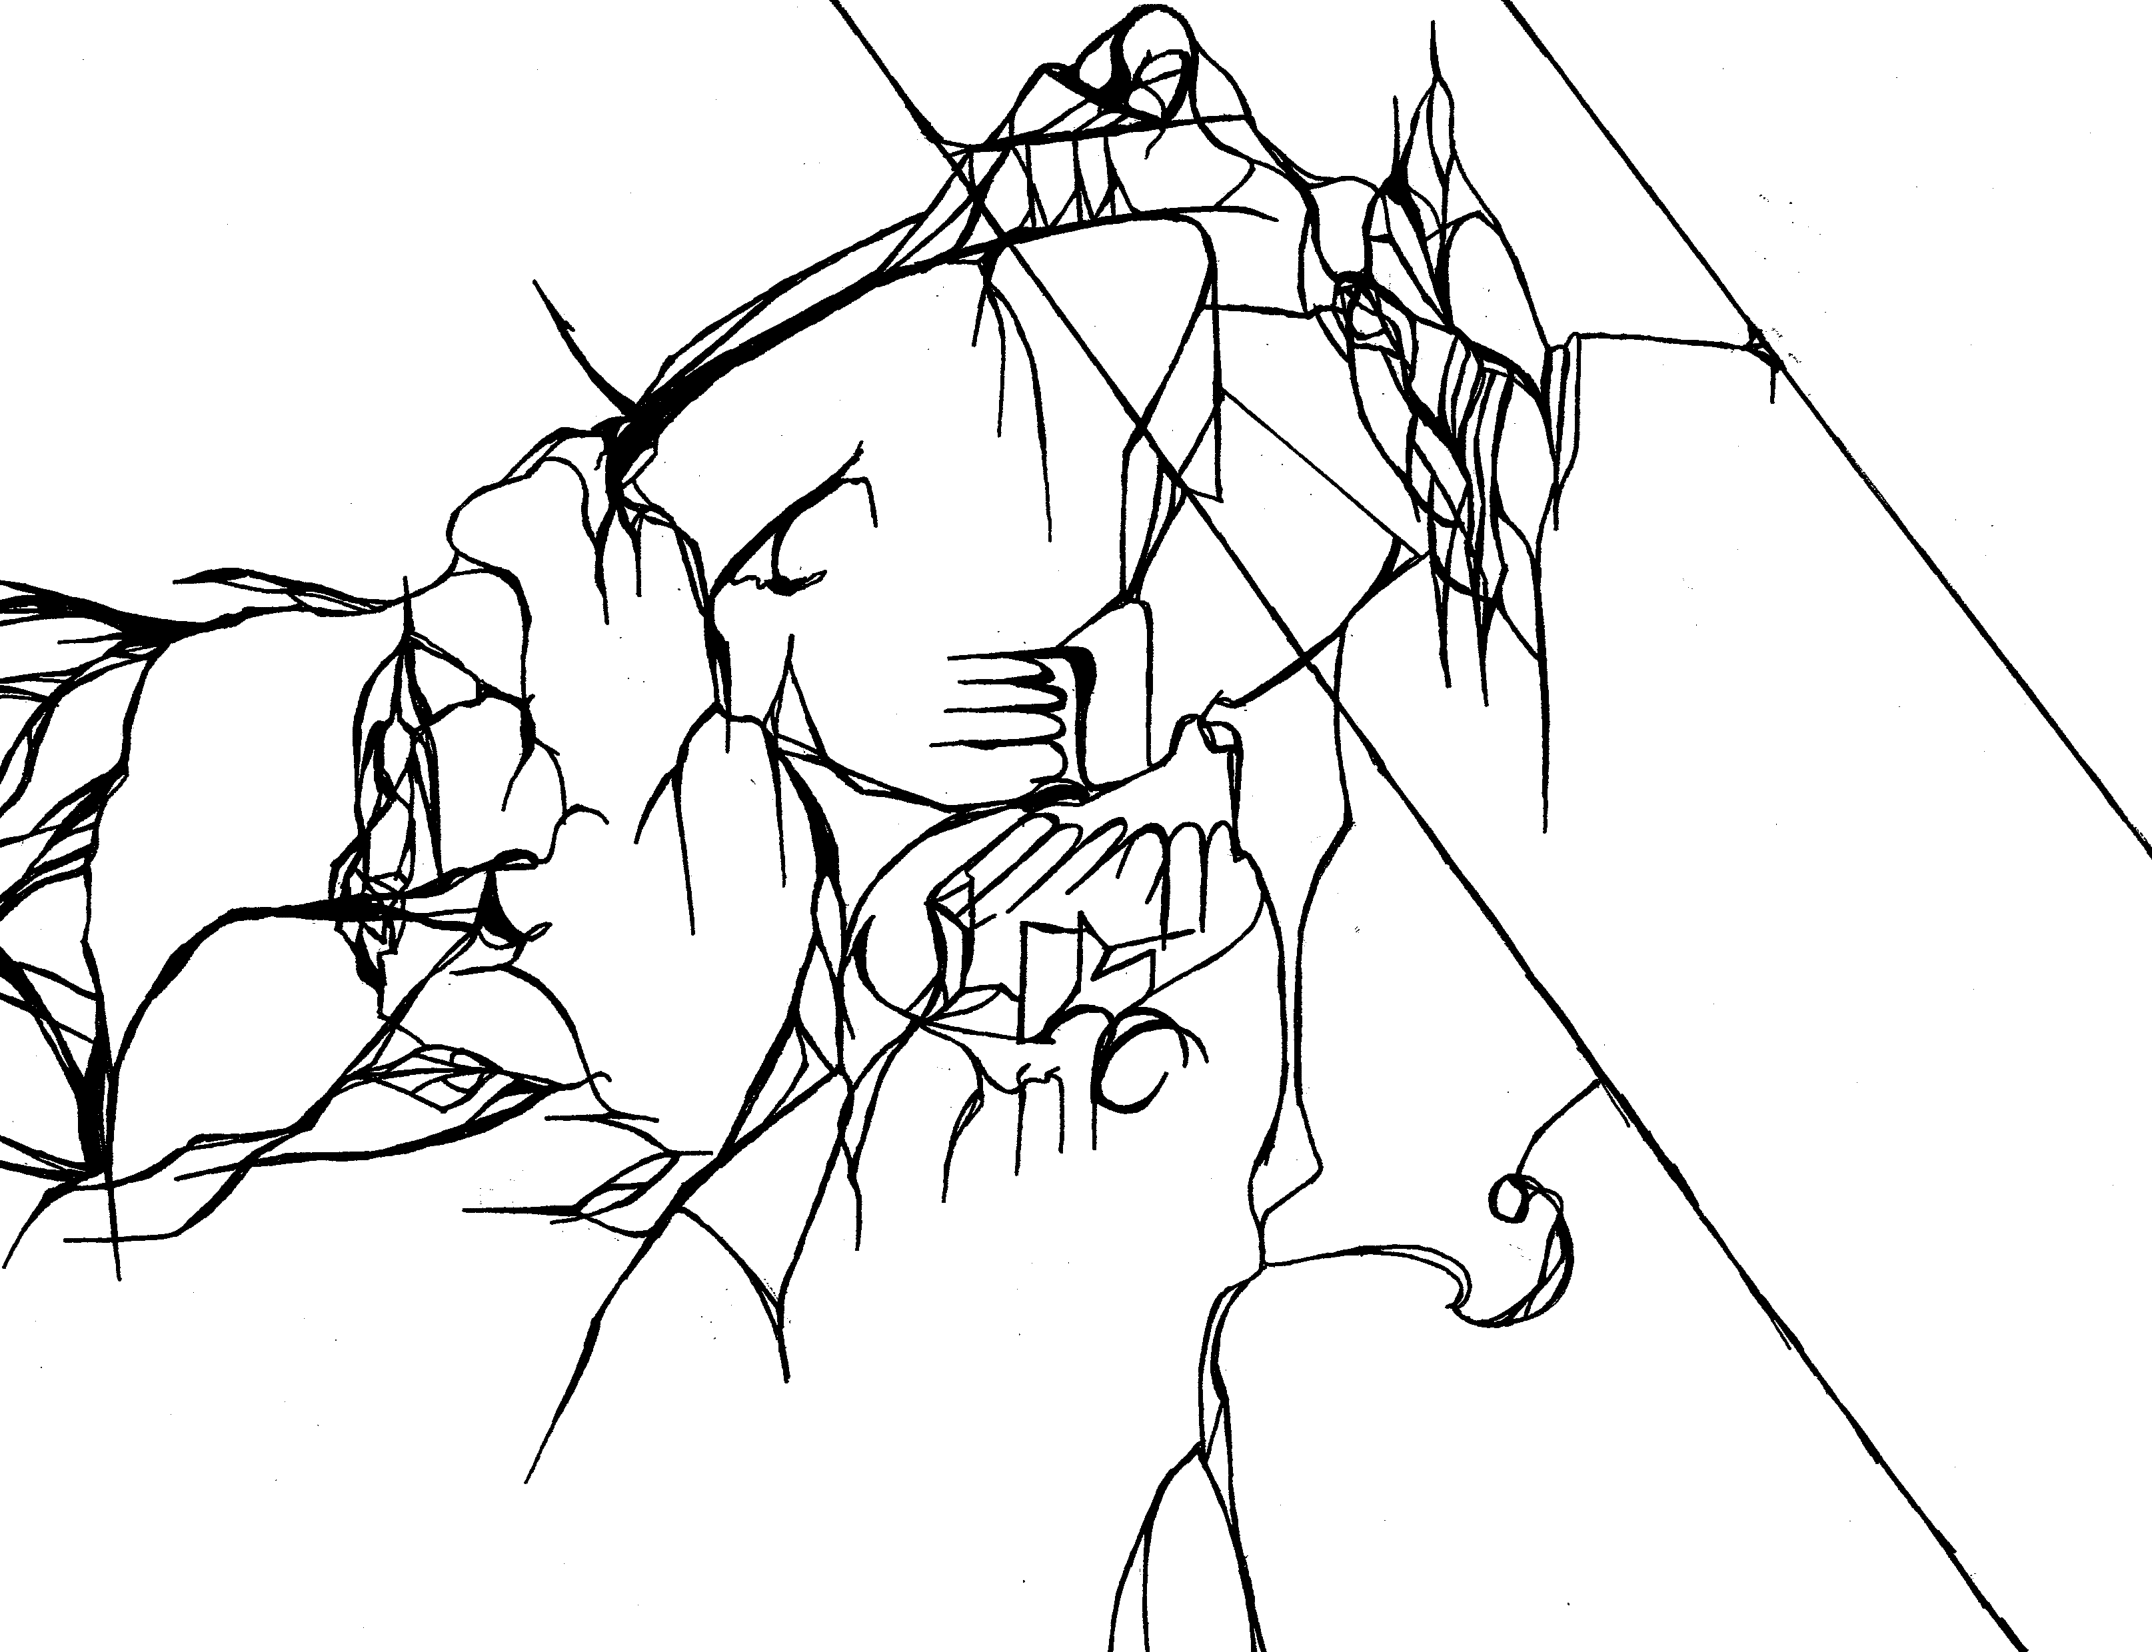
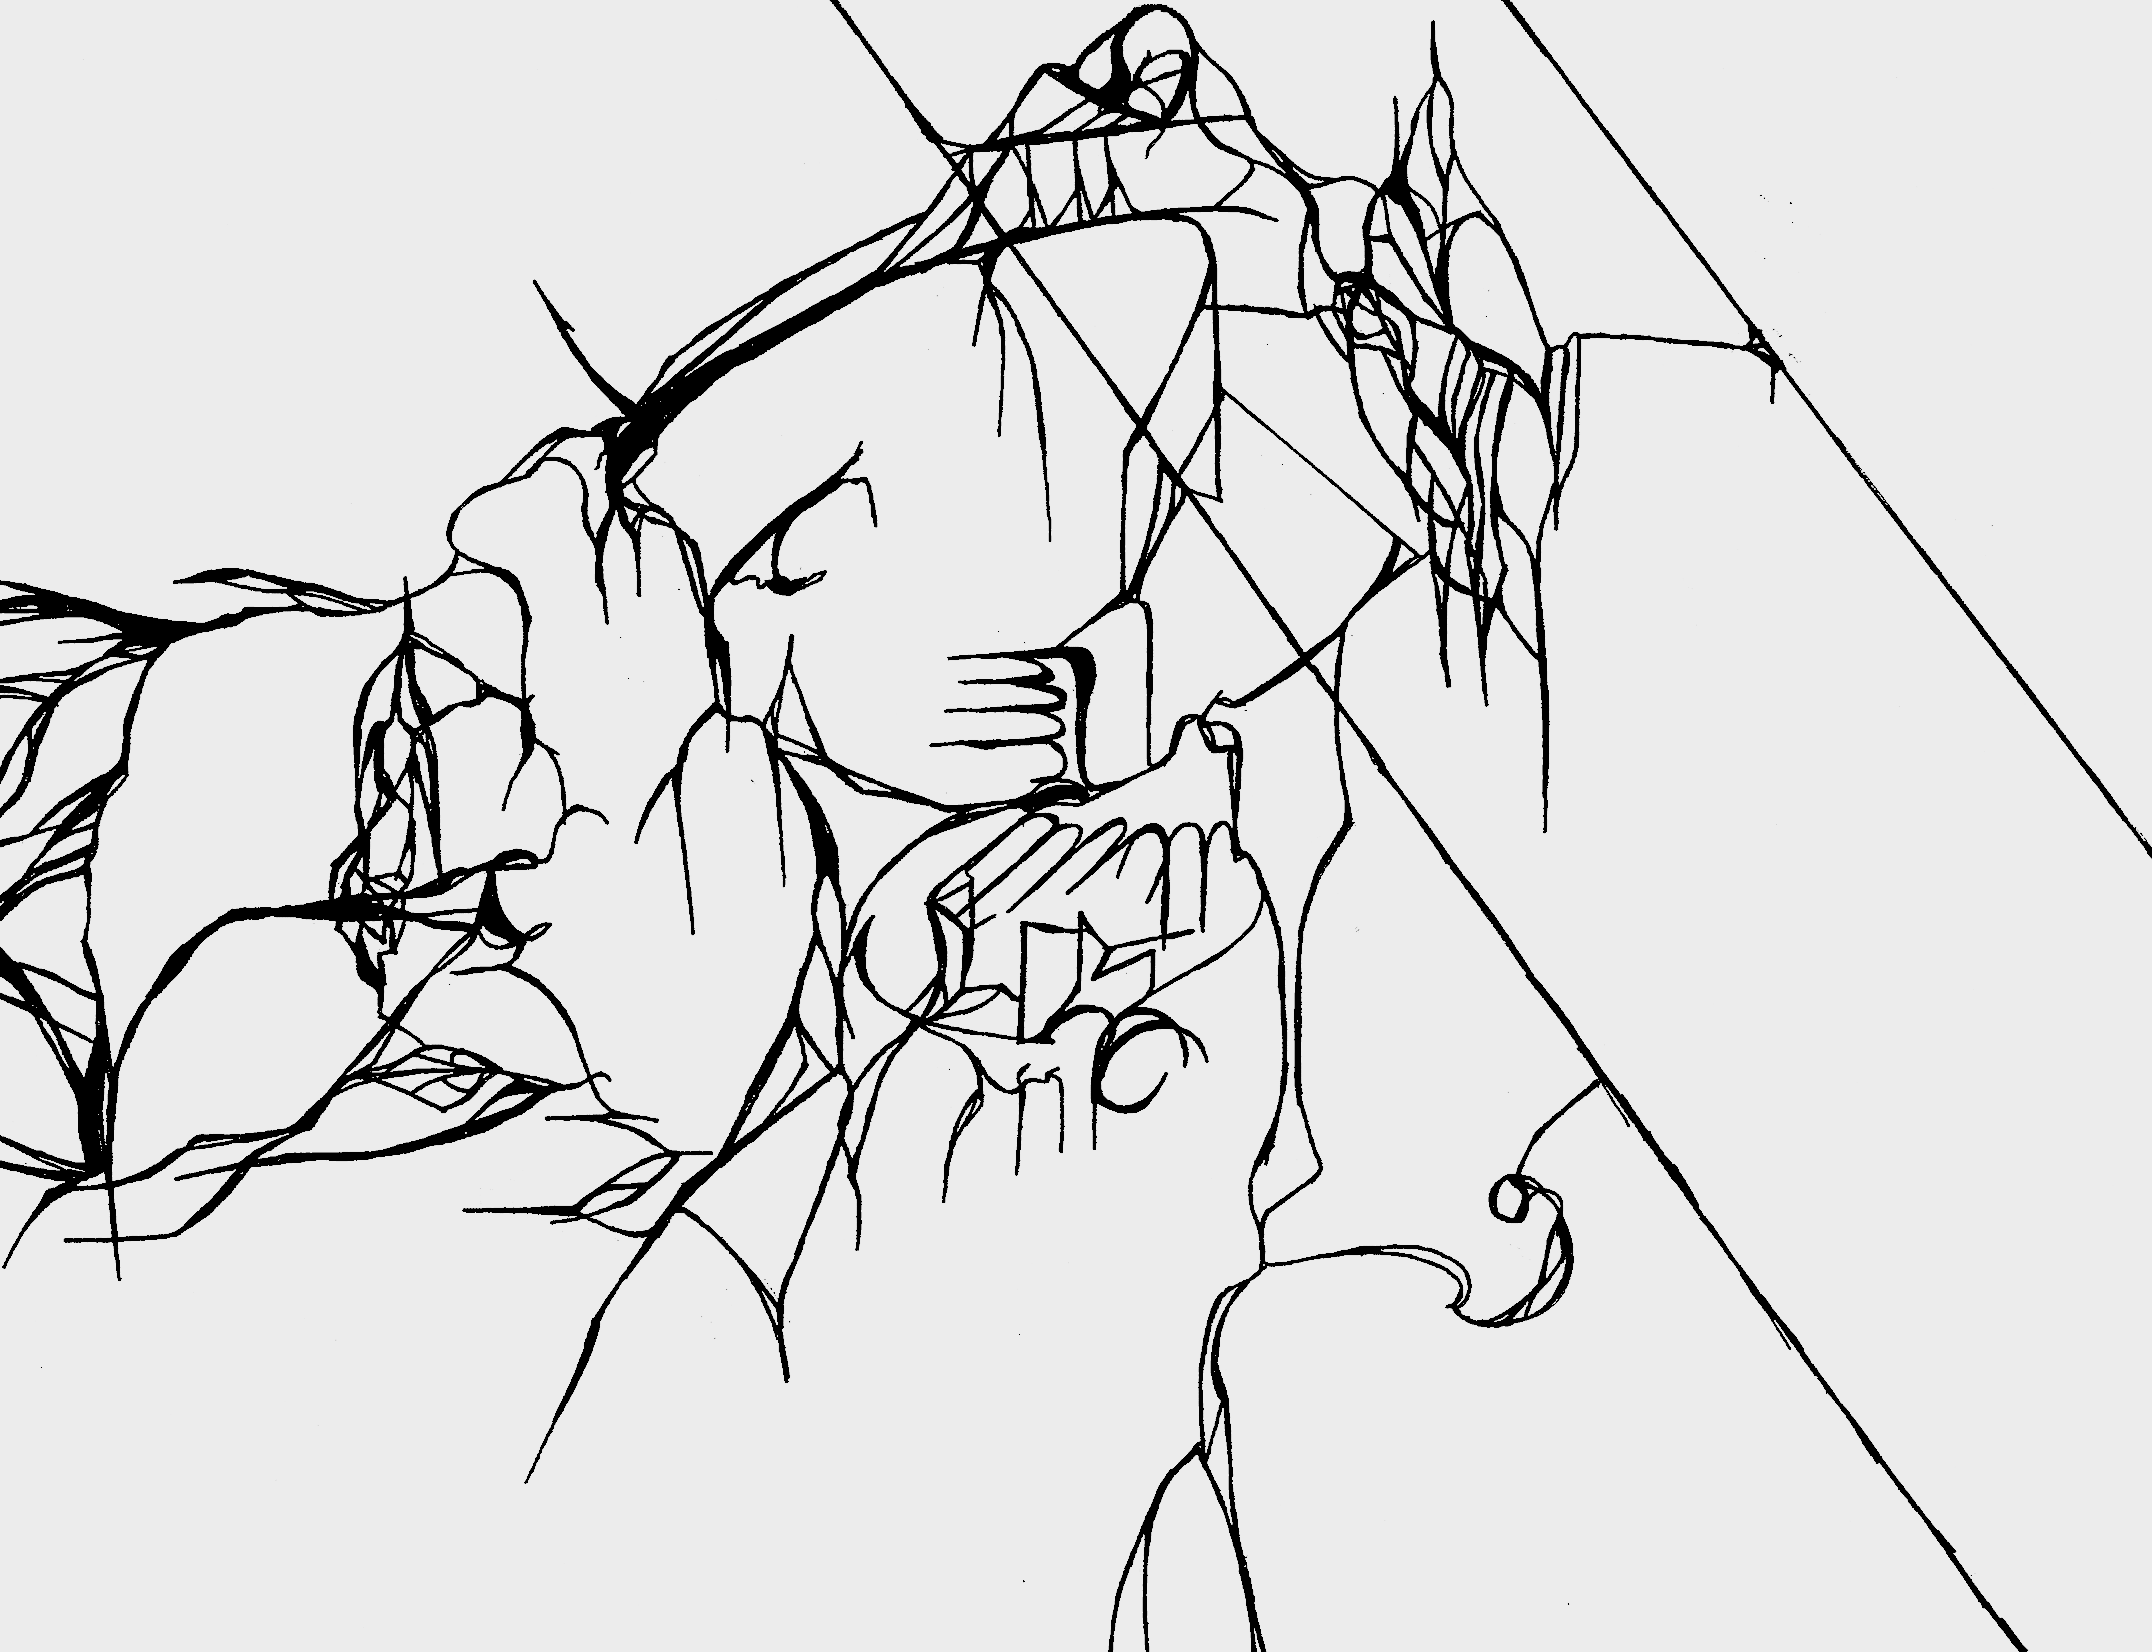
optimize web pictures

Changed region(s): [[0.6538, 0.2778, 0.6849, 0.3396], [0.6849, 0.2161, 0.7161, 0.247], [0.6227, 0.1852, 0.6538, 0.2161]]

diff --git a/pages/visual.html b/pages/visual.html
@@ -40,18 +40,17 @@
             <a name="Digital-Leaning"></a>
 
             <h2><a href="../resources/rorschin.png">rorschin</a></h2>
-                <img src="../resources/rorschin_smaller.png" width="950" height="594">
+                <img src="../resources/rorschin_smaller.jpg" width="950" height="594">
 
                 <h2><a href="../resources/stem-1.png">astem-3</a></h2>
                 <img src="../resources/stem-1_small.jpg" width="950" height="594">
 
                 <h2><a href="../resources/glassed.jpg">glassedstem</a></h2>
-                <img src="../resources/glassed.jpg" width="950" height="1519">
-
+                <img src="../resources/glassed.jpg" width="650" height="1040">
 
 
                 <h2><a href="../resources/vert_points_2.jpg">vert_points-2</a></h2>
-                <img src="../resources/vert_points_2_smaller.jpg" width="950" height="915">
+                <img src="../resources/vert_points_2_smaller.jpg" width="750" height="723">
 
         </div>
 
@@ -62,7 +61,12 @@
             <h2><a href="../resources/chalkBoardSmaller.png">chalkBoardSmaller</a></h2>
             <p>
             </p>
-            <img src="../resources/chalkBoardSmaller.png" width="950" height="1267">
+            <img src="../resources/chalkBoardSmaller.jpg" width="750" height="1000">
+
+            <h2><a href="../resources/quadratureEncoder-FSM-full.jpg">quadratureEncoder-FSM</a></h2>
+            <p>
+            </p>
+            <img src="../resources/quadratureEncoder-FSM.jpg" width="950" height="633">
 
             <h2><a href="../resources/sketch_13-2019.png">sketch_13-2019</a></h2>
             <p>
